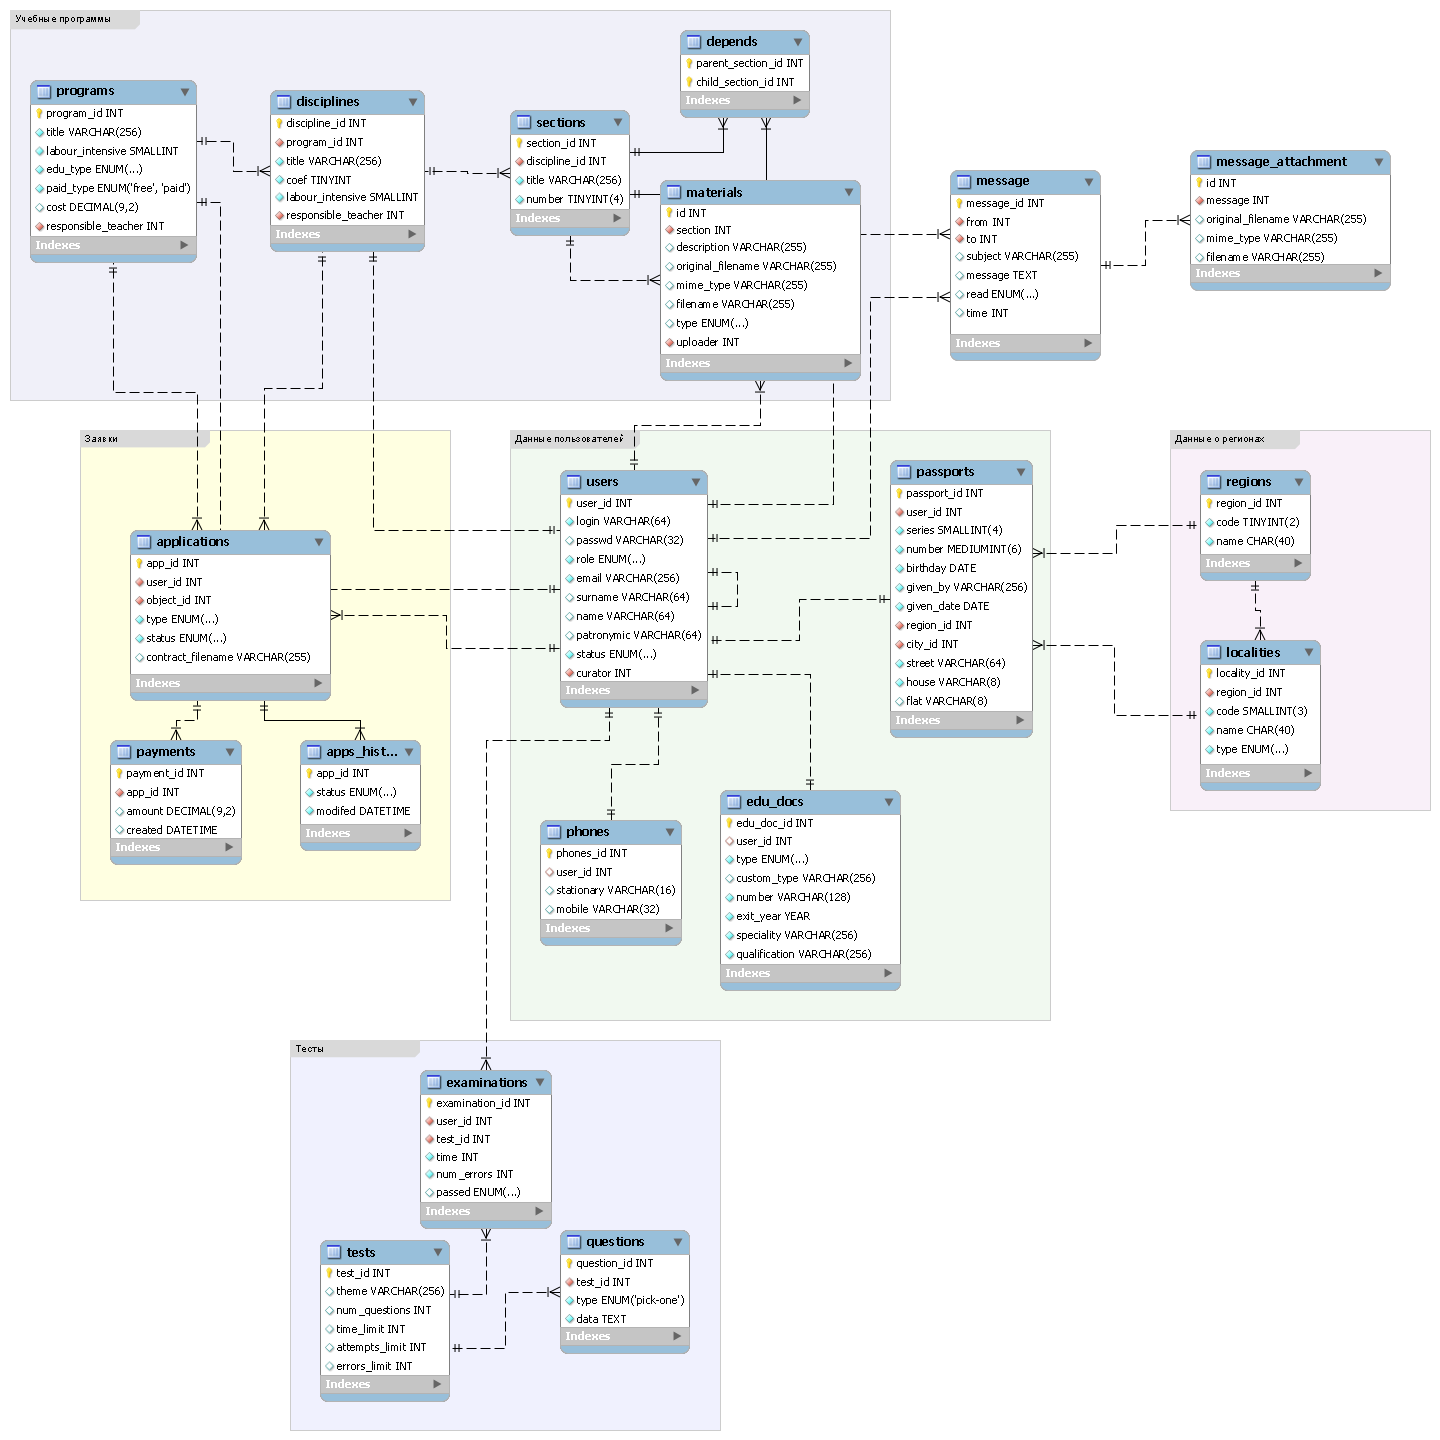
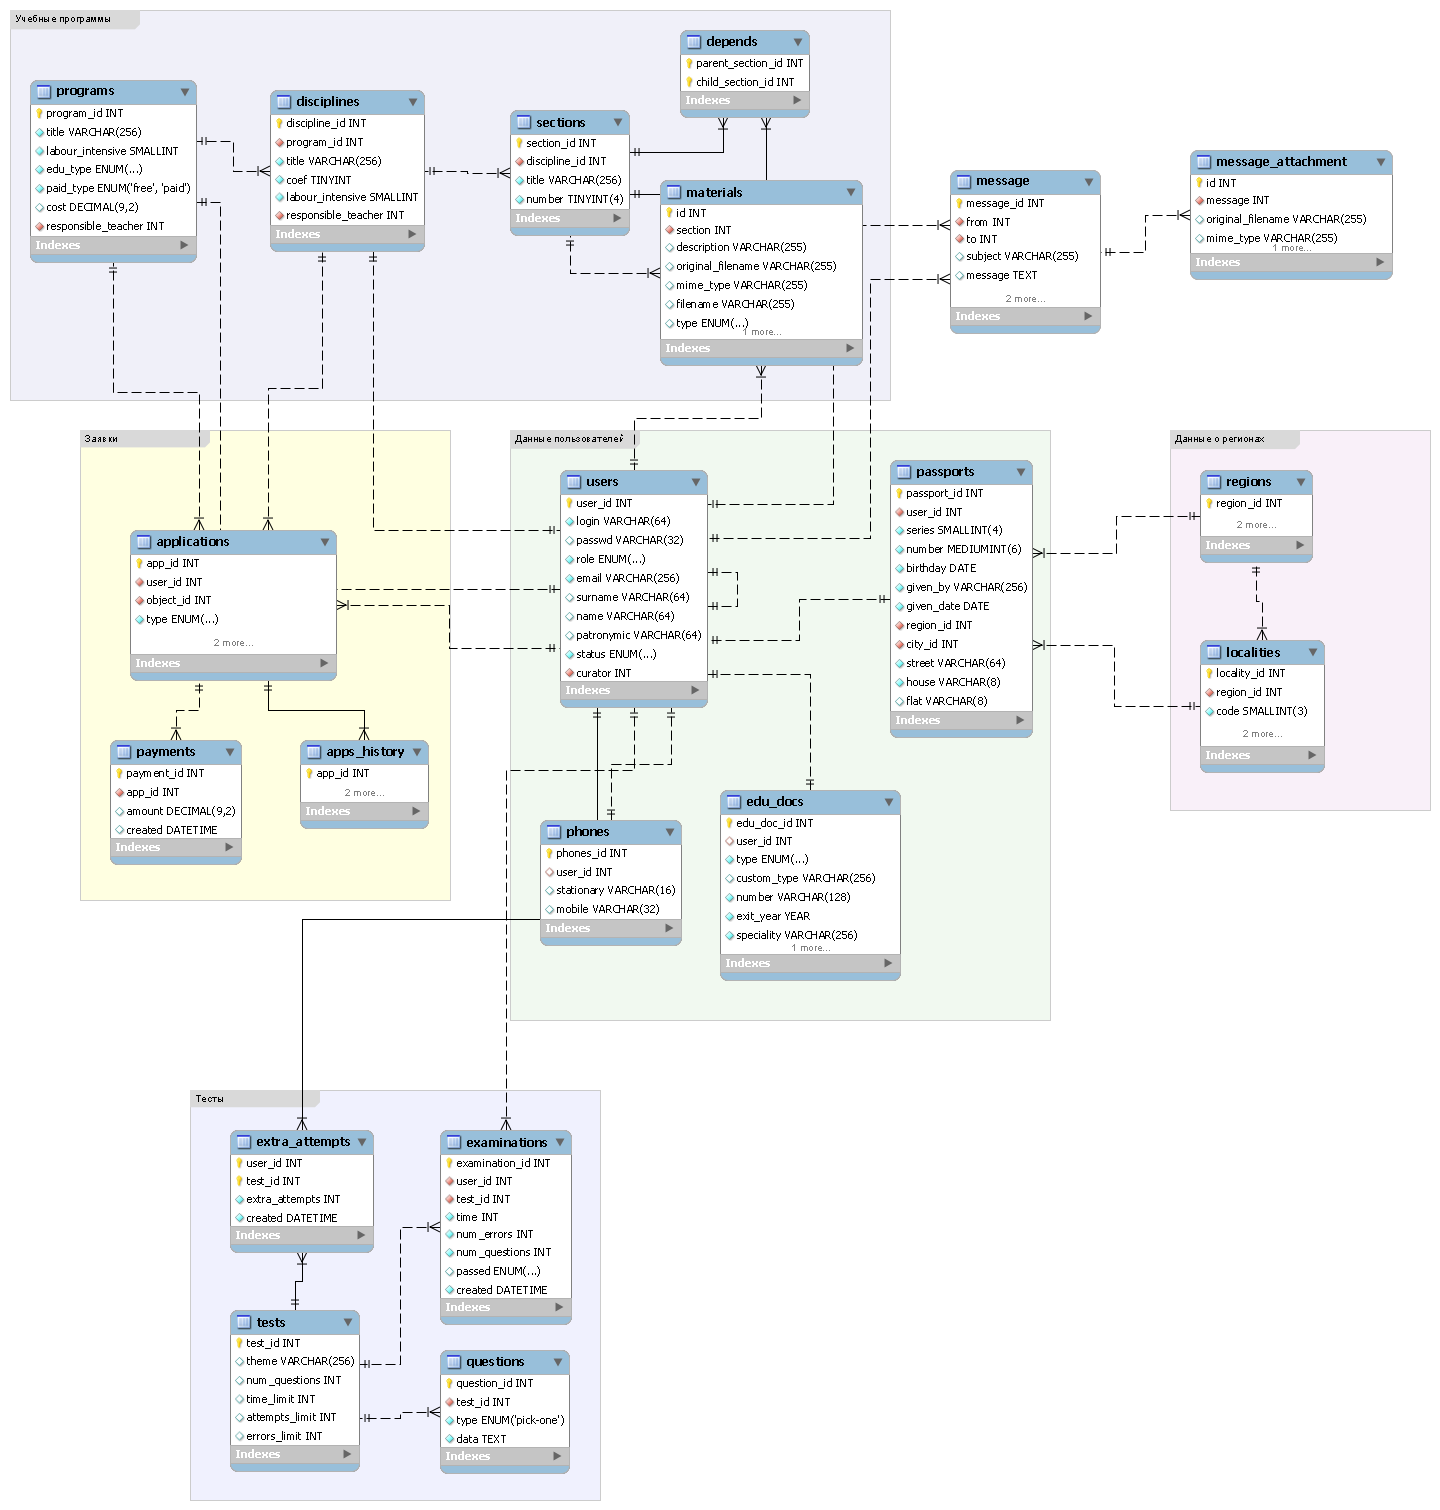
[+] Дополнительные попытки для сдачи теста (тикет #65).

diff --git a/private/app/Model/Test.php b/private/app/Model/Test.php
@@ -328,6 +328,11 @@
             $allowable_errors = self::calcAllowableErrors($test->num_questions,
                                                           $test->errors_limit);
 
+            /**
+            * @todo Добавить проверку на количество попыток (можно открыть 10
+            * окон с тестированием и ограничение не сработает).
+            */
+
             $passed  = ($num_errors > $allowable_errors ? false : true);
             $passed &= ($results->time > $test->time_limit ? false : true);
 
@@ -368,7 +373,7 @@
             return $this->lastInsertId();
         }
 
-        public function attemptsRemains($test_id, $attempts_limit) {
+        public function getUsedAttempts($user_id, $test_id) {
             $sql = '
                 SELECT COUNT(*)
                 FROM ' . $this->_tables['examinations'] . '
@@ -376,25 +381,20 @@
                       user_id = :uid
             ';
 
-            $user = Model_User::create();
-            $udata = (object) $user->getAuth();
-
             $values = array(
                 'tid' => $test_id,
-                'uid' => $udata->user_id
+                'uid' => $user_id
             );
 
             $stmt = $this->prepare($sql);
             $stmt->execute($values);
 
-            $attempts_used = $stmt->fetchColumn();
-            $attempts_remaining = $attempts_limit - $attempts_used;
-
-            return $attempts_remaining;
+            $used = $stmt->fetchColumn();
+            return $used;
         }
 
         public static function calcAllowableErrors($num_questions, $errors_limit) {
-            return round($num_questions / 100 * $errors_limit);
+            return floor($num_questions / 100 * $errors_limit);
         }
 
         /**
@@ -411,11 +411,17 @@
                        (
                            SELECT COUNT(*)
                            FROM ' . $this->_tables['examinations'] . ' ea
-                           WHERE ea.test_id = e.test_id AND
-                                 ea.user_id = e.user_id AND
+                           WHERE ea.user_id = e.user_id AND
+                                 ea.test_id = e.test_id AND
                                  ea.examination_id <= e.examination_id
                            ORDER BY ea.examination_id
-                       ) AS attempt_num
+                       ) AS attempt_num,
+                       (
+                           SELECT extra_attempts
+                            FROM ' . $this->_tables['extra_attempts'] . ' a
+                            WHERE a.user_id = e.user_id AND
+                                  a.test_id = e.test_id
+                       ) AS extra_attempts
 
                 FROM ' . $this->_tables['examinations'] . ' e
 
@@ -435,6 +441,54 @@
             $stmt->setFetchMode(Db_Pdo::FETCH_OBJ);
 
             return $stmt;
+        }
+
+        /**
+        * put your comment there...
+        *
+        * @param  mixed $user_id
+        * @param  mixed $test_id
+        * @return void
+        */
+        public function addExtraAttempt($user_id, $test_id) {
+            $sql = '
+                INSERT INTO ' . $this->_tables['extra_attempts'] . '
+                (user_id, test_id, extra_attempts)
+                VALUES (:uid, :tid, 1)
+                ON DUPLICATE KEY UPDATE extra_attempts = extra_attempts + 1
+            ';
+
+            $values = array(
+                'uid' => $user_id,
+                'tid' => $test_id
+            );
+
+            $stmt = $this->prepare($sql);
+            $stmt->execute($values);
+        }
+
+        public function getExtraAttempts($user_id, $test_id) {
+            $sql = '
+                SELECT extra_attempts
+                FROM ' . $this->_tables['extra_attempts'] . '
+                WHERE user_id = :uid AND
+                      test_id = :tid
+            ';
+
+            $values = array(
+                'uid' => $user_id,
+                'tid' => $test_id,
+            );
+
+            $stmt = $this->prepare($sql);
+            $stmt->execute($values);
+
+            if (!$stmt->rowCount()) {
+                return 0;
+            }
+
+            $extra = $stmt->fetchColumn();
+            return $extra;
         }
     }
 

diff --git a/private/app/Controller/Tests.php b/private/app/Controller/Tests.php
@@ -67,21 +67,28 @@
             $test_id = array_shift($params);
 
             $test = Model_Test::create();
-            $data = $test->get($test_id);
+            $tdata = (object) $test->get($test_id);
 
-            $attempts_remaining = $test->attemptsRemains(
-                $test_id, $data['attempts_limit']
-            );
+            $user = Model_User::create();
+            $udata = (object) $user->getAuth();
+
+            $attempts_used  = $test->getUsedAttempts($udata->user_id, $test_id);
+            $extra_attempts = $test->getExtraAttempts($udata->user_id,$test_id);
+
+            $attempts_remaining = $tdata->attempts_limit + $extra_attempts -
+                                  $attempts_used;
 
             /**
             * @todo Нормальная ссылка.
             */
-            if (!$attempts_remaining) {
+            if ($attempts_remaining <= 0) {
                 $msg = 'У вас больше не осталось попыток для сдачи этого теста';
                 $this->flash($msg, '#', false);
             }
 
-            $this->set('test', $data);
+            $this->set('test', $tdata);
+            $this->set('attempts_used',      $attempts_used);
+            $this->set('extra_attempts',     $extra_attempts);
             $this->set('attempts_remaining', $attempts_remaining);
             $this->render();
         }
@@ -104,6 +111,21 @@
 
             $this->set('results', $results);
             $this->render();
+        }
+
+        public function action_add_extra_attempt(array $params) {
+            $params = (object) $params;
+
+            $test = Model_Test::create();
+            $result = $test->addExtraAttempt($params->user_id,
+                                             $params->test_id);
+
+            $links = Resources_Abstract::getInstance()->links;
+            $link  = $links->get('tests.results',
+                                 array('test_id' => $params->test_id));
+            $msg = 'Дополнительная попытка добавлена';
+
+            $this->flash($msg, $link);
         }
 
         public function action_ajax_save_options() {

diff --git a/private/routes.php b/private/routes.php
@@ -126,8 +126,17 @@
             /* Удаление контрольной точки */
             array('/teacher_courses/remove_checkpoint/([0-9]+)/([0-9]+)', array('student_id', 'section_id'), 'teacher_courses', 'remove_checkpoint', 'teacher.remove_checkpoint', Mvc_Router::ROUTE_REGEX),
 
+            /**
+            * @todo Нормальные ссылки для тестов.
+            */
             /* __Редактирование тестов__ */
             array('/tests/edit/([0-9]+)', array('test_id'), 'tests', 'edit', 'tests.edit', Mvc_Router::ROUTE_REGEX),
+
+            /* __Добавление дополнительной попытки сдать тест__ */
+            array('/tests/add-extra-attempt/([0-9]+)/([0-9]+)', array('user_id', 'test_id'), 'tests', 'add_extra_attempt', 'tests.add-extra-attempt', Mvc_Router::ROUTE_REGEX),
+
+            /* __Результаты сдачи теста__ */
+            array('/tests/results/([0-9]+)', array('test_id'), 'tests', 'results', 'tests.results', Mvc_Router::ROUTE_REGEX),
 
             /* Инструкции для слушателя */
             array('/student', 'pages', 'display', array('page' => 'help/instructions'), 'student.index', Mvc_Router::ROUTE_STATIC),

diff --git a/private/app/Model/Base.php b/private/app/Model/Base.php
@@ -9,6 +9,7 @@
             'checkpoints'       => 'checkpoints',
             'disciplines'       => 'disciplines',
             'edu_docs'          => 'edu_docs',
+            'extra_attempts'    => 'extra_attempts',
             'examinations'      => 'examinations',
             'materials'         => 'materials',
             'materials_states'  => 'materials_states',
